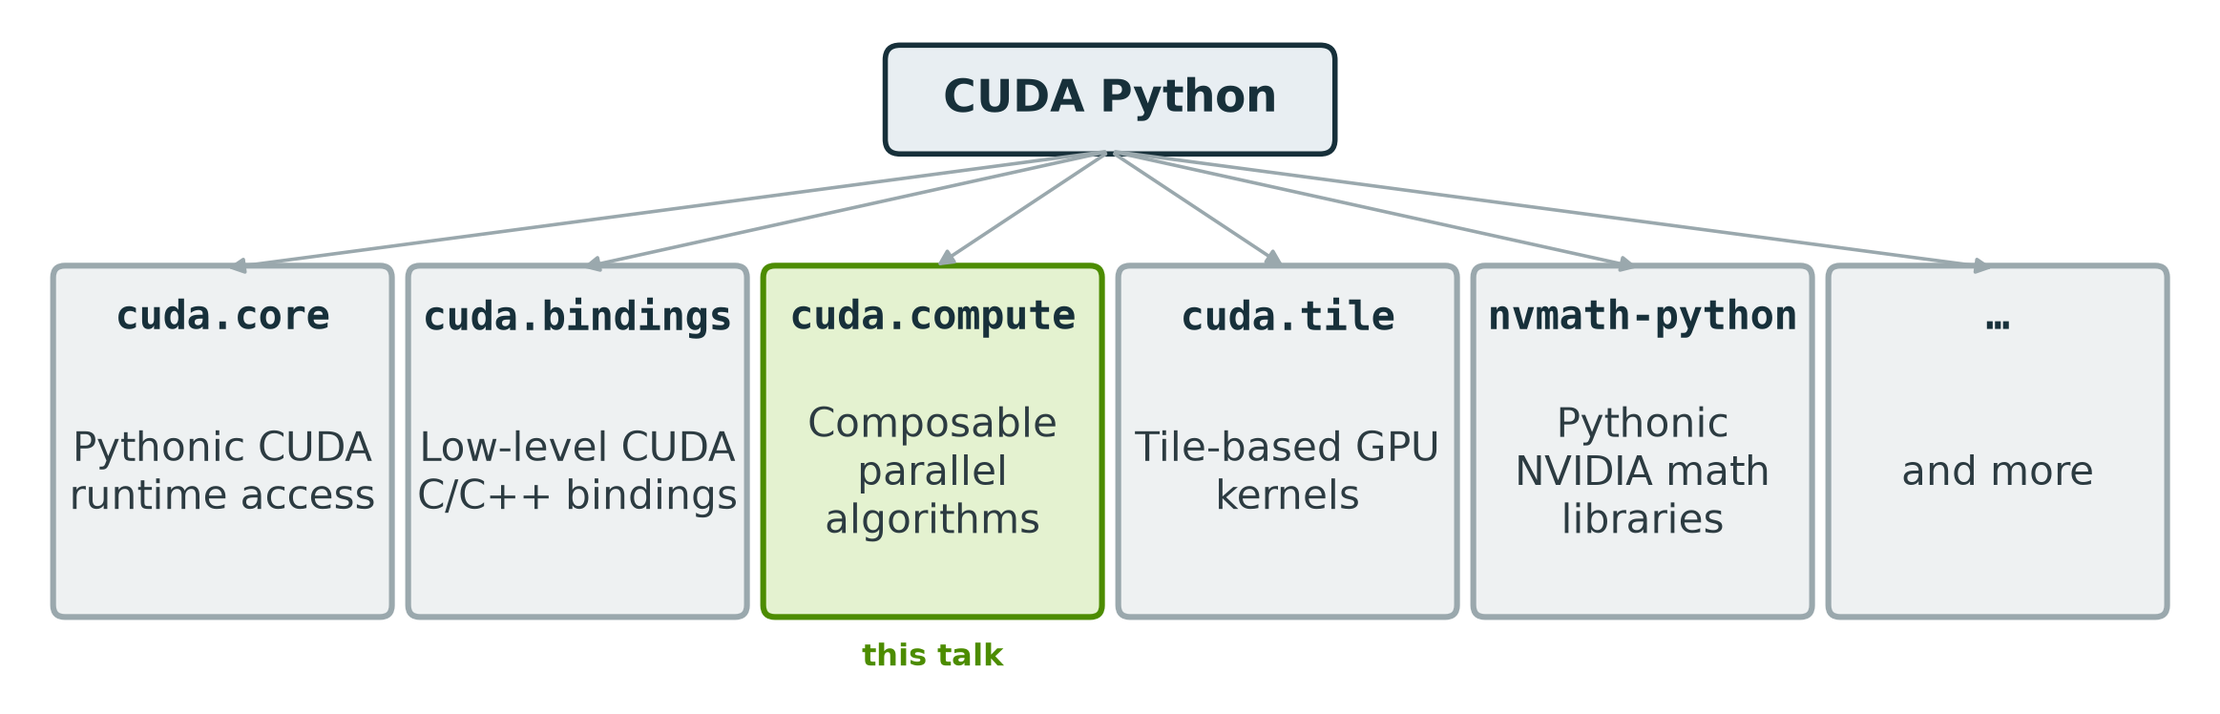
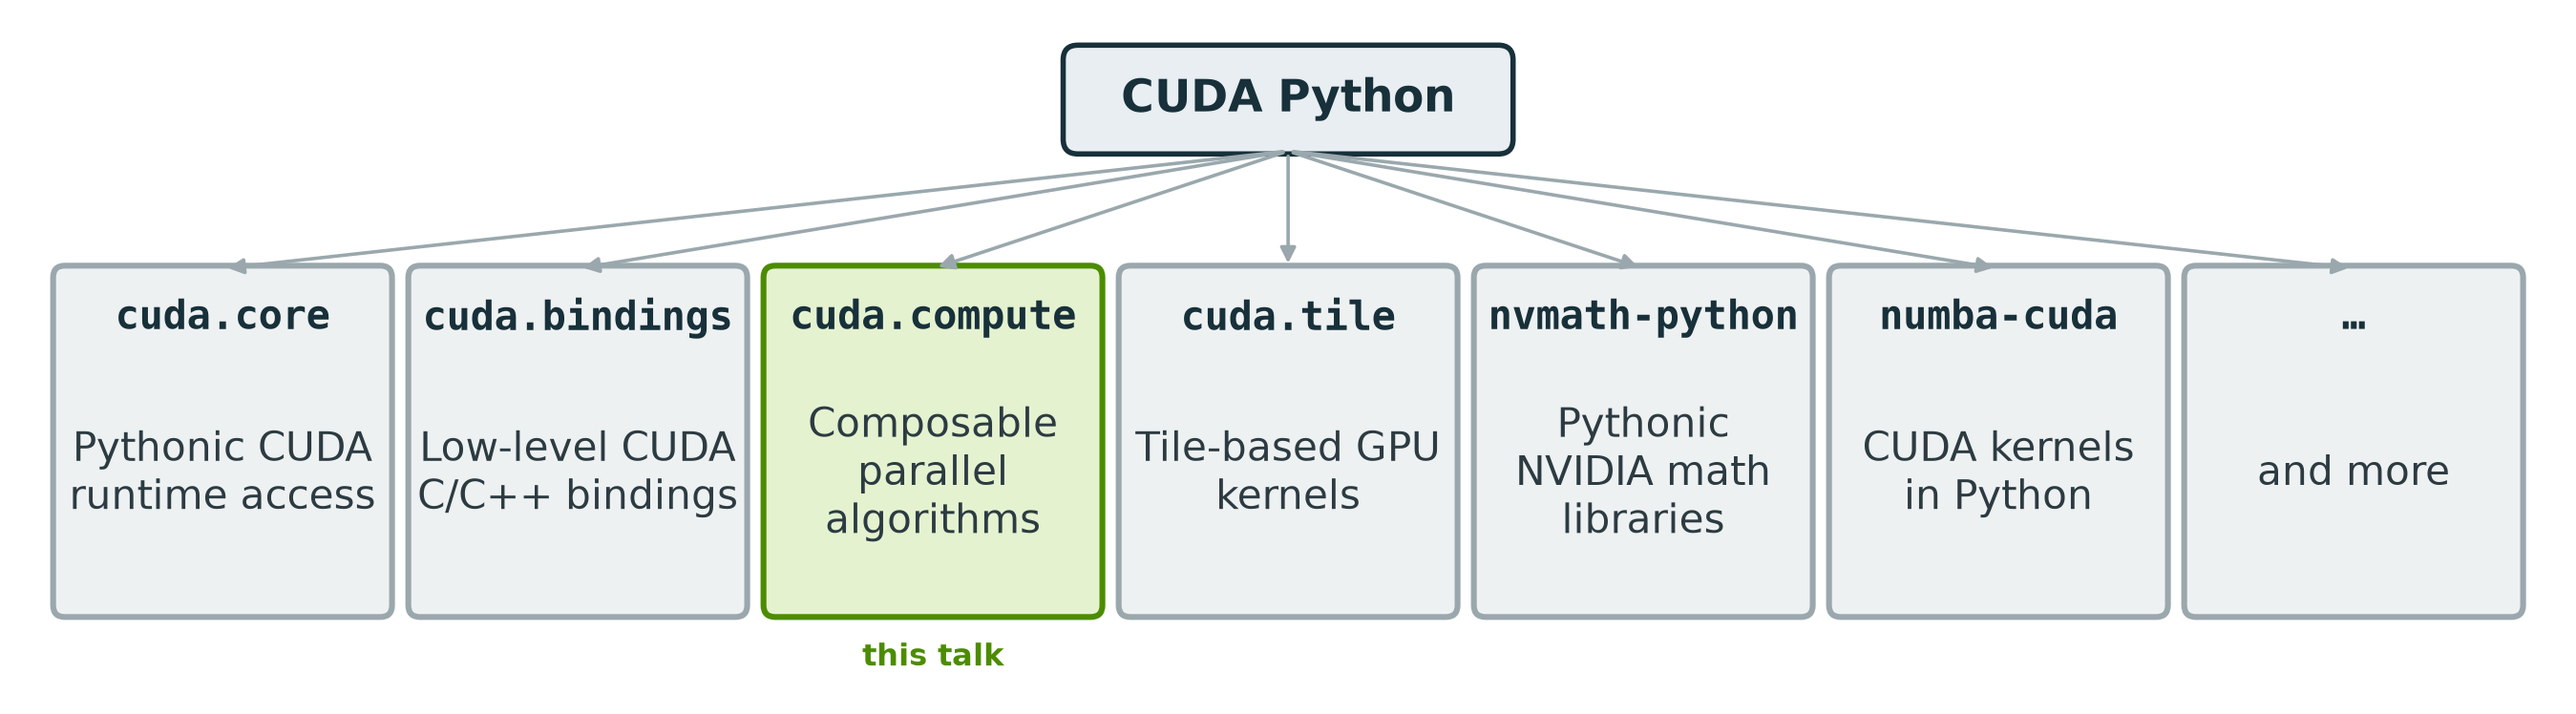
Updates

diff --git a/presentations/slides/awkward-cuda-compute/marp/scripts/mk_ecosystem.py b/presentations/slides/awkward-cuda-compute/marp/scripts/mk_ecosystem.py
@@ -11,6 +11,7 @@ libs=[
  ("cuda.compute",  "Composable parallel algorithms", LGREEN, GREEN),
  ("cuda.tile",     "Tile-based GPU kernels", LGREY, GREY),
  ("nvmath-python", "Pythonic NVIDIA math libraries", LGREY, GREY),
+ ("numba-cuda",    "CUDA kernels in Python", LGREY, GREY),
  ("…",            "and more", LGREY, GREY),
 ]
 n=len(libs); w=2.25; gap=0.15; total=n*w+(n-1)*gap

diff --git a/presentations/slides/awkward-cuda-compute/marp/slides.md b/presentations/slides/awkward-cuda-compute/marp/slides.md
@@ -12,11 +12,16 @@ style: |
   code { background: #eef3f5; padding: 1px 5px; border-radius: 4px; }
   .cols { display: grid; grid-template-columns: 0.9fr 1.1fr; gap: 34px; flex: 1 1 auto; align-items: stretch; }
   .cols > div:last-child { display: flex; flex-direction: column; justify-content: center; }
+  .cols.even { grid-template-columns: 1fr 1fr; align-items: start; align-content: center; }
+  .cols.even > div:last-child { justify-content: flex-start; }
   .cols ul { margin-top: 16px; }
   .cols li { margin: 12px 0; }
   .cur  { color: #013243; font-weight: 700; }
   .past, .past strong { color: #9aa8ad; font-weight: 400; }
   pre { font-size: 15px; margin: 0; }
+  pre code { counter-reset: cln; }
+  pre code .cln { counter-increment: cln; }
+  pre code .cln::before { content: counter(cln); display: inline-block; width: 1.8em; margin-right: 0.9em; text-align: right; color: #aab6bb; }
   .note { font-size: 16px; color: #45555b; margin: 3px 0 12px 4px; }
   .note b { color: #013243; }
   .slow { color: #b23b2e; font-weight: 700; }
@@ -45,7 +50,7 @@ Ianna Osborne (Princeton) · **Ashwin Srinath** (NVIDIA) · SciPy 2026
 
 ## Scientific data isn't rectangular
 
-<div class="cols">
+<div class="cols even">
 <div>
 
 <span class="cur">NumPy</span>
@@ -84,7 +89,7 @@ Ianna Osborne (Princeton) · **Ashwin Srinath** (NVIDIA) · SciPy 2026
 
 ## GPUs prefer regular work
 
-<div class="cols">
+<div class="cols even">
 <div>
 
 <span class="cur">Traditional GPU algorithms assume</span>
@@ -384,7 +389,25 @@ section.challenge h1 {
 
 ---
 
-<!-- ASHWIN:BEGIN -->
+<!--
+cc is one of many libraries in the "CUDA Python" ecosystem.
+
+A collection of libraries exposing the capabilities of CUDA to Python developers that were previously only available from C or C++.
+
+cuda-core and cuda-bindings 
+- let you work directly with the CUDA runtime and driver and let you:
+  - allocate GPU memory
+  - schedule work on the GPU
+  - compile CUDA programs
+
+nvmath-python provides optimized linear algebra, random numbers, and FFTs.
+
+numba-cuda and cuda-tile lets you write functions that execute in parallel on the GPU (we call these kernels).
+
+
+Writing kernels requires some CUDA expertise. That's why we have cuda.compute - it's a library that lets you write custom functionality using higher-level tooling. It doesn't require any CUDA-specific knowledge. Let's see an example of what cuda.compute looks like.
+
+-->
 
 ## What is `cuda.compute`?
 
@@ -398,6 +421,8 @@ section.challenge h1 {
 
 ![w:760](figs/ecosystem.png)
 
+<div class="note" style="text-align:center"><a href="https://nvidia.github.io/cuda-python/" style="color:#6f93d6">https://nvidia.github.io/cuda-python/</a></div>
+
 </div>
 </div>
 
@@ -405,6 +430,23 @@ section.challenge h1 {
 ---
 
 ## What is `cuda.compute`?
+
+
+---
+
+<!--
+In this code example, we have a CuPy array that we want to sort, but we don't want a regular numeric sort. Instead we want to sort by the last digit.
+
+To do this with cuda.compute we can use the merge_sort function, and provide a custom comparator defined as a Python lambda. That comparator tells cuda.compute how to compare any two values.
+
+At the end, the output array holds the sorted values and you can see they are sorted by the last digit.
+
+This is a very simple example, but it shows a few important features of cuda.compute
+
+- first, cuda.compute isn't an array or tensor frameworks. Instead, you can pass cupy arrays or pytorch tensors etc to it as the input and output arguments. It's meant to be used WITH these libraries.
+- second, a major feature of cuda.compute is that it's composed of generic algorithms. We implemented one kind of sort here, but you can provide a different comparator. It's designed to be flexible.
+-->
+
 
 <div class="cols">
 <div>
@@ -438,6 +480,11 @@ merge_sort(d_in_keys=data_in, d_out_keys=data_out,
 
 ## What is `cuda.compute`?
 
+<!--
+In terms of level of abstraction, cuda.compute sits somewhere between high-level array or tensor libraries and low-level CUDA/C++ code. If you look underneath CuPy or PyTorch today, you'll see a significant amount of CUDA C++ code. The goal of cuda.compute is to eliminate the need for architecting libraries in this way, and keep things in pure Python.
+-->
+
+
 <div class="cols">
 <div>
 
@@ -457,6 +504,12 @@ merge_sort(d_in_keys=data_in, d_out_keys=data_out,
 ---
 
 ## What is `cuda.compute`?
+
+
+<!--
+cuda.compute takes its inspiration from C++ algorithms and iterators. The code snippet on top shows how you would compute sum of squares using the Thrust C++ library. On the bottom is the equivalent Python. The similarity doesn't end with just the design. In fact the Python program is ultimately going to call down to the exact same CUDA kernels as the Thrust program and you should expect to see identical performance between the two.
+-->
+
 
 <div class="cols">
 <div>
@@ -499,6 +552,12 @@ reduce_into(d_in=squares, d_out=out, num_items=n,
 
 ## `cuda.compute` features
 
+<!--
+At its core, `cuda.compute` is a collection of algorithms, like reduce, scan, sort, and transform. And while you don't see it, the implementation of these algorithms is in CUDA C++. That code is painstakingly optimized and tuned for every CUDA architecture supported by NVIDIA so you're guaranteed to see best-in-class performance no matter where you run them (and with no tuning efforts on your part).
+
+As we saw before with the sorting-by-last-digit example, these algorithms are highly generic so you can customize them and combine them in clever ways to solve the problem at hand.
+-->
+
 <div class="cols">
 <div>
 
@@ -516,6 +575,12 @@ reduce_into(d_in=squares, d_out=out, num_items=n,
 ---
 
 ## `cuda.compute` features
+
+<!--
+That brings us to iterators.
+-->
+
+
 
 <div class="cols">
 <div>
